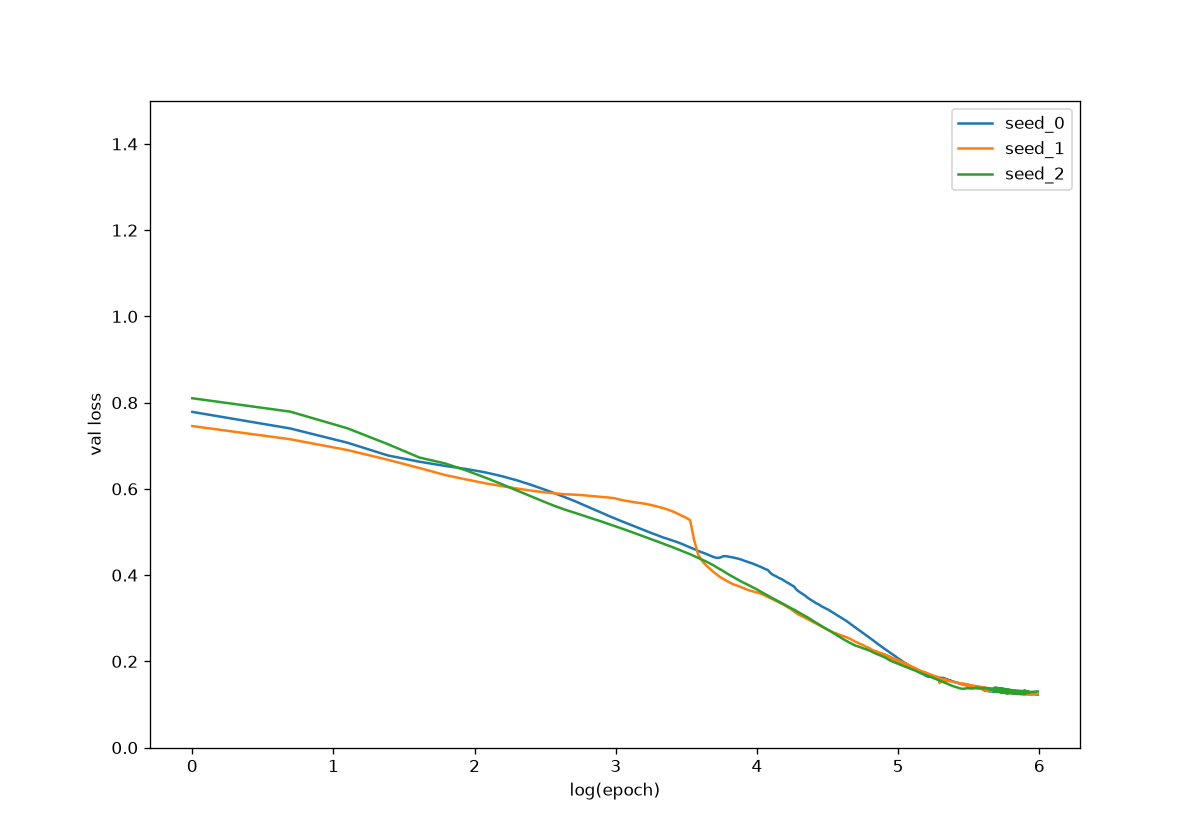
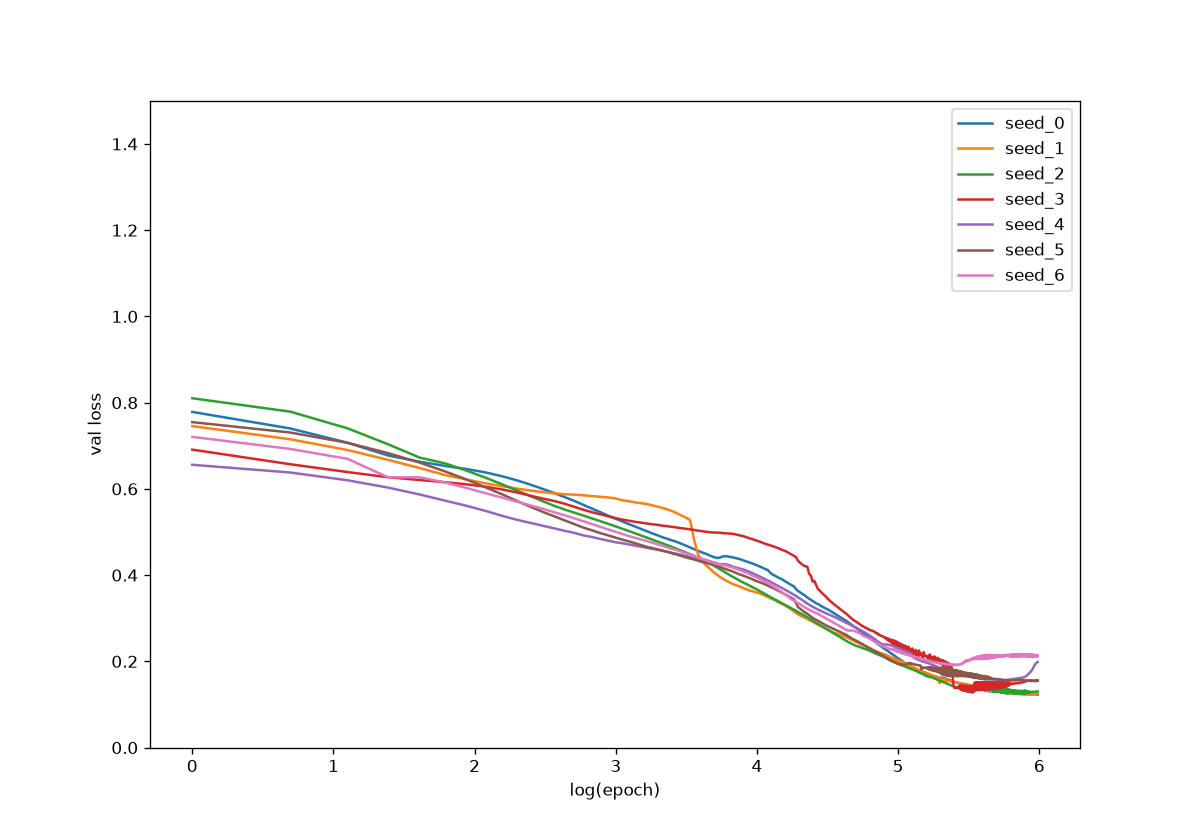
edit

Changed region(s): [[0.1542, 0.4952, 0.6475, 0.681], [0.6167, 0.65, 0.8633, 0.8357], [0.8017, 0.2167, 0.8942, 0.3405]]

diff --git a/main.py b/main.py
@@ -370,7 +370,7 @@ for each_num_conv_lay in [num_conv_lay[0]]:
         
         for each_num_pool_lay in [num_pool_lay[0]]:
             
-            for each_num_conv1_lay in [num_conv1_lay[0]]:
+            for each_num_conv1_lay in [num_conv1_lay[1]]:
                 
                 print("\n-------------------\n")
                 
@@ -394,7 +394,7 @@ for each_num_conv_lay in [num_conv_lay[0]]:
                 learn_rate_val = 5e-3
                 print("learn rate", learn_rate_val)
                 
-                
+                '''
                 for each_seed in range(0, 3):
                     
                     print("seed", each_seed)
@@ -422,7 +422,7 @@ for each_num_conv_lay in [num_conv_lay[0]]:
                     )
                     
                     time.sleep(10)
-                
+                '''
                 
                 plot.variation(
                     dir = dir_out,
